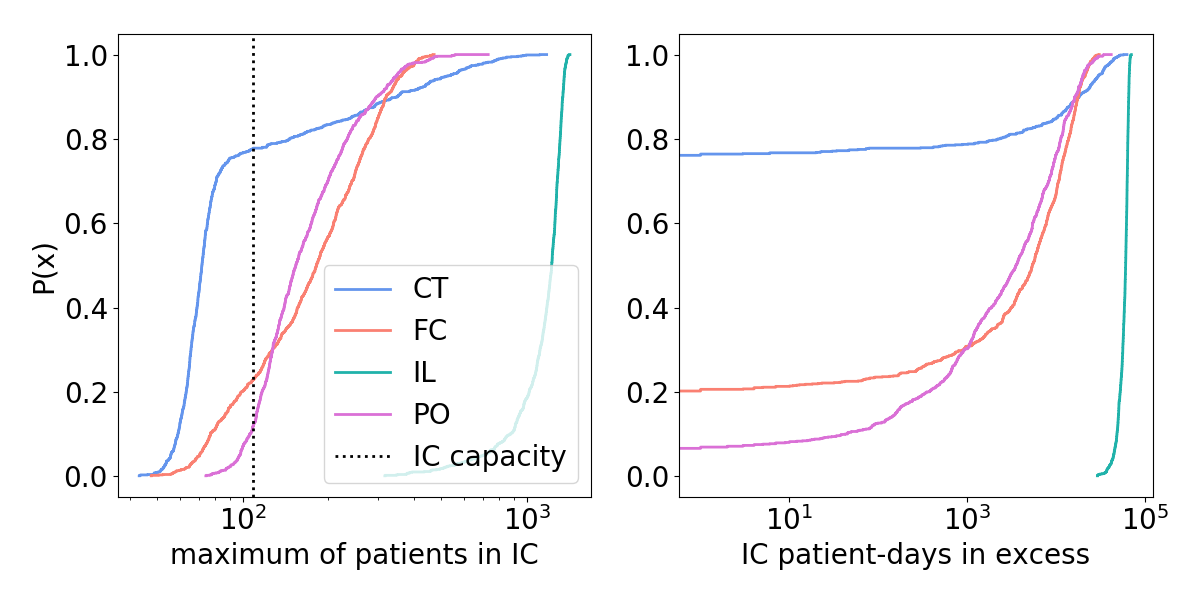
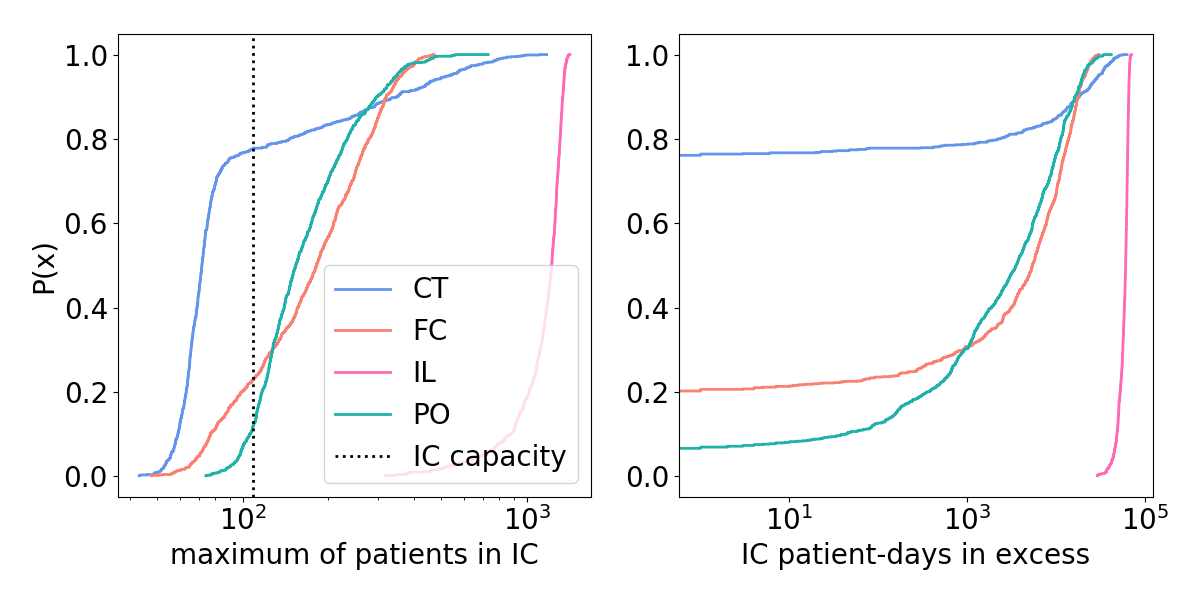
change colors

diff --git a/EasyVVUQ/cdfs_nobio.py b/EasyVVUQ/cdfs_nobio.py
@@ -147,8 +147,8 @@ ax_p = f.add_subplot(121, xlabel='maximum of patients in IC', ylabel='P(x)')
 # without biology
 ax_p.step(CT_IC_prev_avg_max,p,lw=2,color='cornflowerblue',label='CT')
 ax_p.step(FC_IC_prev_avg_max,p,lw=2,color='salmon',label='FC')
-ax_p.step(IL_IC_prev_avg_max,p,lw=2,color='lightseagreen',label='IL')
-ax_p.step(PO_IC_prev_avg_max,p,lw=2,color='orchid',label='PO')
+ax_p.step(IL_IC_prev_avg_max,p,lw=2,color='hotpink',label='IL')
+ax_p.step(PO_IC_prev_avg_max,p,lw=2,color='lightseagreen',label='PO')
 ax_p.axvline(x=IC_capacity,lw=2,linestyle=':',color='black',label='IC capacity')
 # general settings
 ax_p.set_xscale('log')
@@ -160,8 +160,8 @@ ax_e = f.add_subplot(122, xlabel='IC patient-days in excess')
 # without biology
 ax_e.step(CT_IC_ex_max,p,lw=2,color='cornflowerblue')
 ax_e.step(FC_IC_ex_max,p,lw=2,color='salmon')
-ax_e.step(IL_IC_ex_max,p,lw=2,color='lightseagreen')
-ax_e.step(PO_IC_ex_max,p,lw=2,color='orchid')
+ax_e.step(IL_IC_ex_max,p,lw=2,color='hotpink')
+ax_e.step(PO_IC_ex_max,p,lw=2,color='lightseagreen')
 # general settings
 ax_e.set_xscale('log')
 # ax_e.set_xticks([1e4, 6e4])
